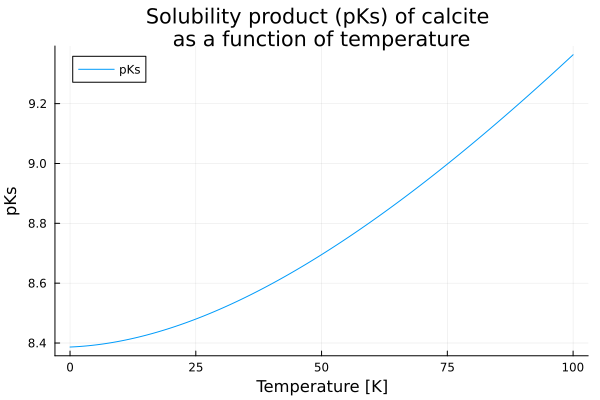
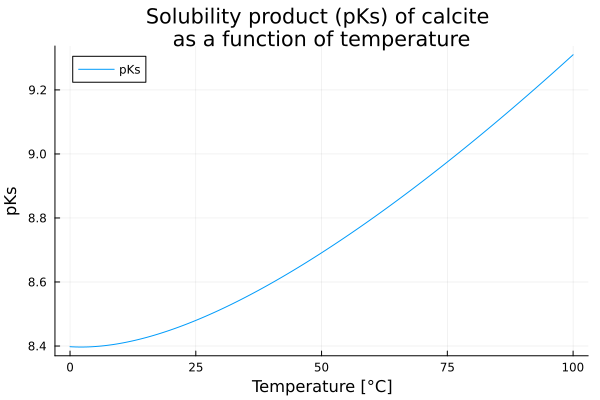
Update examples and scripts with new species handling and unit management

diff --git a/docs/src/examples/titration_acetic_acid.md b/docs/src/examples/titration_acetic_acid.md
@@ -26,7 +26,7 @@ the organic database provides acetic acid and acetate.
 The primaries `H2O@`, `H+`, `Ace-`, `Na+` form a basis for the system.
 Every other species is expressed as a linear combination of these four.
 
-```@example titration_acetic_setup
+```@setup titration_acetic_setup
 using ChemistryLab
 using DynamicQuantities
 
@@ -42,12 +42,29 @@ species = [dict_all_species[s] for s in split("H2O@ Na+ NaOH@ H+ OH- AceH@ Ace-"
 cs = ChemicalSystem(species, ["H2O@", "H+", "Ace-", "Na+"])
 ```
 
+```julia
+using ChemistryLab
+using DynamicQuantities
+
+substances_inorg = build_species("../../../data/slop98-inorganic-thermofun.json")
+substances_org   = build_species("../../../data/slop98-organic-thermofun.json")
+
+dict_all_species = merge(
+    Dict(symbol(s) => s for s in substances_inorg),
+    Dict(symbol(s) => s for s in substances_org),
+)
+species = [dict_all_species[s] for s in split("H2O@ Na+ NaOH@ H+ OH- AceH@ Ace-")]
+
+cs = ChemicalSystem(species, ["H2O@", "H+", "Ace-", "Na+"])
+# pprint(cs.SM) #  for pretty-printing the stoichiometric matrix
+```
+
 !!! note "Restricting the species set"
     This example uses a hand-picked list of species for efficiency.
     To include all compatible species from the databases automatically, use `speciation`:
     ```julia
-    aq_species  = speciation(substances_inorg, split("H2O@ Na+ NaOH@ H+ OH-");  aggregate_state=[AS_AQUEOUS])
-    ace_species = speciation(substances_org,   split("AceH@ Ace-");              aggregate_state=[AS_AQUEOUS])
+    aq_species  = speciation(substances_inorg, split("H2O@ Na+ NaOH@ H+ OH-"); aggregate_state=[AS_AQUEOUS])
+    ace_species = speciation(substances_org, split("AceH@ Ace-"); aggregate_state=[AS_AQUEOUS])
     species     = unique(s -> symbol(s), vcat(aq_species, ace_species))
     ```
     Note that equilibrium calculations may be more expensive, and that the results
@@ -61,13 +78,13 @@ The pKₐ is derived from the standard Gibbs energies of the dissociation reacti
 CH₃COOH ⇌ CH₃COO⁻ + H⁺:
 
 ```@example titration_acetic_setup
-R  = ustrip(Constants.R)
-T  = 298.15   # K
+R  = Constants.R
+T  = 25ua"degC" # equivalent to 298.15u"K"
 RT = R * T
 
 sp = Dict(symbol(s) => s for s in cs.species)
 
-Ka  = exp(-(sp["Ace-"].ΔₐG⁰(T = T) + sp["H+"].ΔₐG⁰(T = T) - sp["AceH@"].ΔₐG⁰(T = T)) / RT)
+Ka  = exp(-(sp["Ace-"].ΔₐG⁰(T=T, unit=true) + sp["H+"].ΔₐG⁰(T=T, unit=true) - sp["AceH@"].ΔₐG⁰(T=T, unit=true)) / RT)
 pKa = -log10(Ka)
 println("Ka  = ", Ka)
 println("pKa = ", round(pKa, digits = 2))
@@ -75,7 +92,7 @@ println("pKa = ", round(pKa, digits = 2))
 
 Build the [`EquilibriumSolver`](@ref) once — it is reused for each titration point:
 
-```@example titration_acetic_setup
+```julia
 using OptimizationIpopt
 
 solver = EquilibriumSolver(
@@ -110,6 +127,8 @@ nAH = ca * Va  # total moles of CH₃COOH = 10 mmol
 Vbeq = nAH / cb   # equivalence volume, L
 V_eq = Vbeq * 1e3  # equivalence volume, mL
 
+ρ_water = 1.   # kg/L
+
 volumes_NaOH = range(0, 2 * V_eq; length = 100)   # mL
 pH_vals = Float64[]
 
@@ -121,7 +140,7 @@ for V_mL in volumes_NaOH
 
     set_quantity!(s, "AceH@", nAH    * u"mol")
     set_quantity!(s, "NaOH@", n_NaOH * u"mol")
-    set_quantity!(s, "H2O@",  V_total * u"kg")
+    set_quantity!(s, "H2O@",  ρ_water * V_total * u"kg")
 
     V_liq = volume(s).liquid
     set_quantity!(s, "H+",  1e-7u"mol/L" * V_liq)   # pH-neutral seed
@@ -149,7 +168,7 @@ In the buffer zone (before the equivalence point), the Henderson–Hasselbalch e
 beyond the equivalence point, the pH is controlled by the excess NaOH concentration.
 
 ```julia
-using Plots #hide
+using Plots
 
 function ana_pH(Vb_mL)
     Vb = Vb_mL * 1e-3
@@ -188,27 +207,6 @@ scatter!(p, [0, V_eq], [pH0, pHeq];
 )
 vline!(p, [V_eq]; linestyle = :dash, color = :red,  label = "PE ($(round(V_eq, digits=1)) mL)")
 hline!(p, [pKa];  linestyle = :dot,  color = :grey, label = "pKₐ = $(round(pKa, digits=2)) at V = 50 mL")
-p
 ```
 
 ![Acetic acid titration curve](../assets/acetic_titration.png)
-
----
-
-## Analysis
-
-| Zone | V(NaOH) | Dominant species | pH |
-|------|---------|------------------|----|
-| Initial state | 0 mL | CH₃COOH | ≈ ½(pKₐ − log cₐ) ≈ 2.88 |
-| Buffer zone | 0–100 mL | CH₃COOH / CH₃COO⁻ | ≈ pKₐ ≈ 4.76 at V = 50 mL |
-| Equivalence point (PE) | 100 mL | CH₃COO⁻ | Inflection, weakly basic |
-| Excess base | > 100 mL | CH₃COO⁻ + OH⁻ | Controlled by excess NaOH |
-
-- **V = 0 mL** — pH ≈ ½(pKₐ − log cₐ) = ½(4.76 + 1) ≈ 2.88.
-- **V = 50 mL (half-equivalence)** — Equal concentrations of CH₃COOH and CH₃COO⁻; pH ≈ pKₐ ≈ 4.76 (Henderson–Hasselbalch condition).
-- **V = 100 mL (PE)** — The acid is fully neutralised; CH₃COO⁻ acts as a weak base, giving a slightly basic pH.
-- **V > 100 mL** — pH rises steeply, controlled by the concentration of free OH⁻ from excess NaOH.
-
-!!! note "Monoprotic vs. diprotic acids"
-    Because acetic acid has only one ionisable proton, the titration curve shows a **single** inflection point.
-    Compare with the [maleic acid example](@ref sec-titration-maleic), which has two well-separated equivalence points.

diff --git a/docs/src/examples/titration_maleic_acid.md b/docs/src/examples/titration_maleic_acid.md
@@ -23,7 +23,7 @@ the organic database provides maleic acid and its conjugate bases.
 | `OH-`    | OH⁻ | aqueous solute |
 | `H2O@`   | H₂O | aqueous solvent |
 
-```@example titration_setup
+```@setup titration_setup
 using ChemistryLab
 using DynamicQuantities
 
@@ -34,12 +34,41 @@ dict_all_species = merge(Dict(symbol(s) => s for s in substances_inorg), Dict(sy
 species = [dict_all_species[s] for s in split("H2O@ Na+ NaOH@ H+ OH- MalH2@ MalH- Mal-2")]
 
 cs = ChemicalSystem(species, ["H2O@", "H+", "Mal-2", "Na+", "Zz"])
+```
 
+```julia
+using ChemistryLab
+using DynamicQuantities
+
+substances_inorg = build_species("../../../data/slop98-inorganic-thermofun.json")
+substances_org   = build_species("../../../data/slop98-organic-thermofun.json")
+
+dict_all_species = merge(Dict(symbol(s) => s for s in substances_inorg), Dict(symbol(s) => s for s in substances_org))
+species = [dict_all_species[s] for s in split("H2O@ Na+ NaOH@ H+ OH- MalH2@ MalH- Mal-2")]
+
+cs = ChemicalSystem(species, ["H2O@", "H+", "Mal-2", "Na+", "Zz"])
 ```
 
 Build the [`EquilibriumSolver`](@ref) once — it is reused for each of the 66 titration points:
 
-```@example titration_setup
+```@setup titration_setup
+using OptimizationIpopt
+
+solver = EquilibriumSolver(
+    cs,
+    DiluteSolutionModel(),
+    IpoptOptimizer(
+        mu_strategy = "adaptive",
+    );
+    variable_space = Val(:linear),
+    abstol  = 1e-8,
+    reltol  = 1e-8,
+    maxiters = 100,
+    verbose = 0,
+)
+```
+
+```julia
 using OptimizationIpopt
 
 solver = EquilibriumSolver(
@@ -69,6 +98,8 @@ c_acid = 0.1     # maleic acid concentration, mol/L
 c_base = 2     # NaOH concentration, mol/L
 n_H2A  = V_acid * c_acid   # total moles of H₂A = 2.5 mmol
 
+ρ_water = 1.   # kg/L
+
 volumes_NaOH = range(0, 15; length = 101)   # mL
 pH_vals = Float64[]
 
@@ -80,7 +111,7 @@ for V_mL in volumes_NaOH
 
     set_quantity!(s, "MalH2@", n_H2A   * u"mol")
     set_quantity!(s, "NaOH@", n_NaOH * u"mol")
-    set_quantity!(s, "H2O@",   V_total * u"kg")
+    set_quantity!(s, "H2O@",   ρ_water * V_total * u"kg")
 
     V_liq = volume(s).liquid
     set_quantity!(s, "H+",  1e-7u"mol/L" * V_liq)   # pH-neutral seed
@@ -125,7 +156,6 @@ vline!(p, [V_eq1]; linestyle = :dash, color = :red,    label = "PE₁ ($(round(V
 vline!(p, [V_eq2]; linestyle = :dash, color = :blue,   label = "PE₂ ($(round(V_eq2,digits = 1)) mL)")
 hline!(p, [pKa1];  linestyle = :dot,  color = :orange, label = "pKₐ₁ = $pKa1")
 hline!(p, [pKa2];  linestyle = :dot,  color = :green,  label = "pKₐ₂ = $pKa2")
-p
 ```
 
 ![Maleitric titration curve](../assets/maleic_titration.png)

diff --git a/docs/src/quickstart.md b/docs/src/quickstart.md
@@ -26,6 +26,7 @@ In this example, the database is [cemdata](https://www.empa.ch/web/s308/thermody
 
 ```@example from_scratch
 using ChemistryLab
+using DynamicQuantities # for unit management
 
 all_species = build_species("../../data/cemdata18-thermofun.json")
 species_calcite = speciation(all_species, split("Cal H2O@ CO2");
@@ -43,8 +44,8 @@ dict_species_calcite["Cal"]
 ```@example from_scratch
 using Plots
 
-p1 = plot(xlabel="Temperature [K]", ylabel="Cp⁰ [K]", title="Heat capacity of calcite \nas a function of temperature")
-plot!(p1, θ -> dict_species_calcite["Cal"].Cp⁰(T = 273.15+θ), 0:0.1:100, label="Cp⁰")
+p1 = plot(xlabel="Temperature [°C]", ylabel="Cp⁰ [J/mol/K]", title="Heat capacity of calcite \nas a function of temperature")
+plot!(p1, θ -> dict_species_calcite["Cal"].Cp⁰(T = θ*ua"degC"), 0:0.1:100, label="Cp⁰")
 ```
 
 Obtaining stoichiometric matrices requires the choice of a species-independent basis.
@@ -69,8 +70,8 @@ dict_reactions_calcite["Cal"].logK⁰
 ```
 
 ```@example from_scratch
-p2 = plot(xlabel="Temperature [K]", ylabel="pKs", title="Solubility product (pKs) of calcite \nas a function of temperature")
-plot!(p2, θ -> dict_reactions_calcite["Cal"].logK⁰(T = 273.15+θ), 0:0.1:100, label="pKs")
+p2 = plot(xlabel="Temperature [°C]", ylabel="pKs", title="Solubility product (pKs) of calcite \nas a function of temperature")
+plot!(p2, θ -> dict_reactions_calcite["Cal"].logK⁰(T = θ*ua"degC"), 0:0.1:100, label="pKs")
 ```
 
 ## Equilibrium solving

diff --git a/docs/src/examples/simplified_clinker_dissolution.md b/docs/src/examples/simplified_clinker_dissolution.md
@@ -26,6 +26,17 @@ cs = ChemicalSystem(species, CEMDATA_PRIMARIES)
 ```
 
 ```julia
+using ChemistryLab
+using DynamicQuantities
+
+substances = build_species("../../../data/cemdata18-thermofun.json")
+input_species = split("C3S C2S C3A C4AF Gp Anh Portlandite Jennite H2O@ ettringite monosulphate12 C3AH6 C3FH6 C4FH13")
+species = speciation(substances, input_species; aggregate_state=[AS_AQUEOUS])
+
+cs = ChemicalSystem(species, CEMDATA_PRIMARIES)
+```
+
+```@example eq_setup
 state = ChemicalState(cs)
 
 # Clinker + gypsum composition (mass fractions, total = 1)
